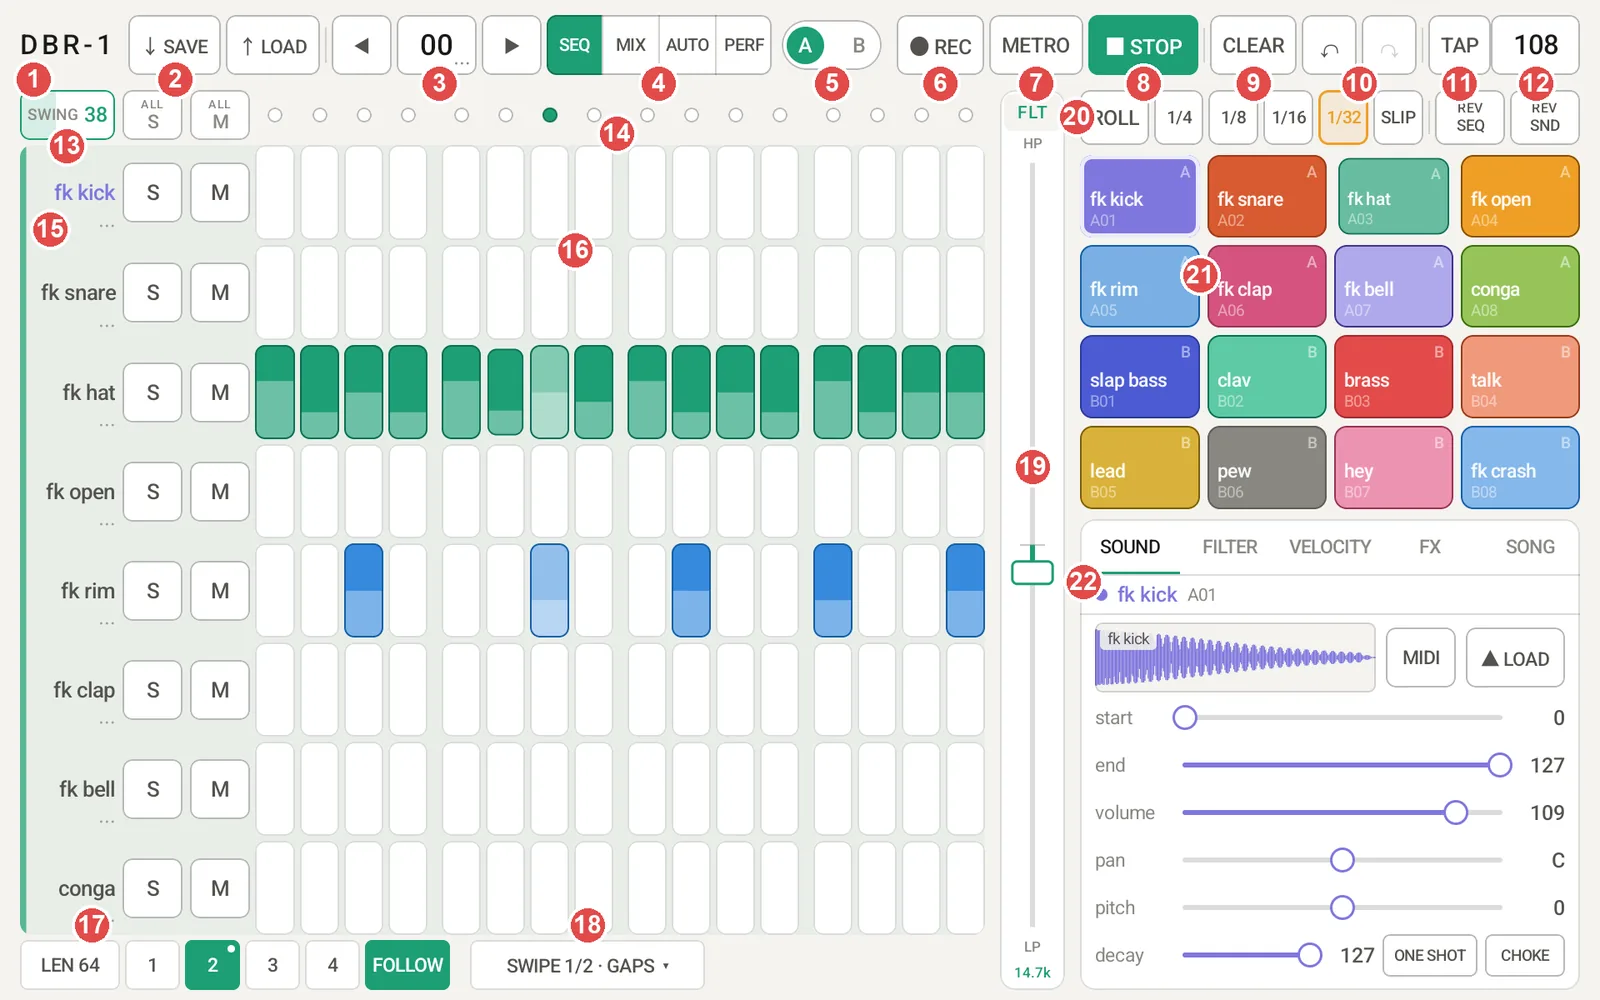
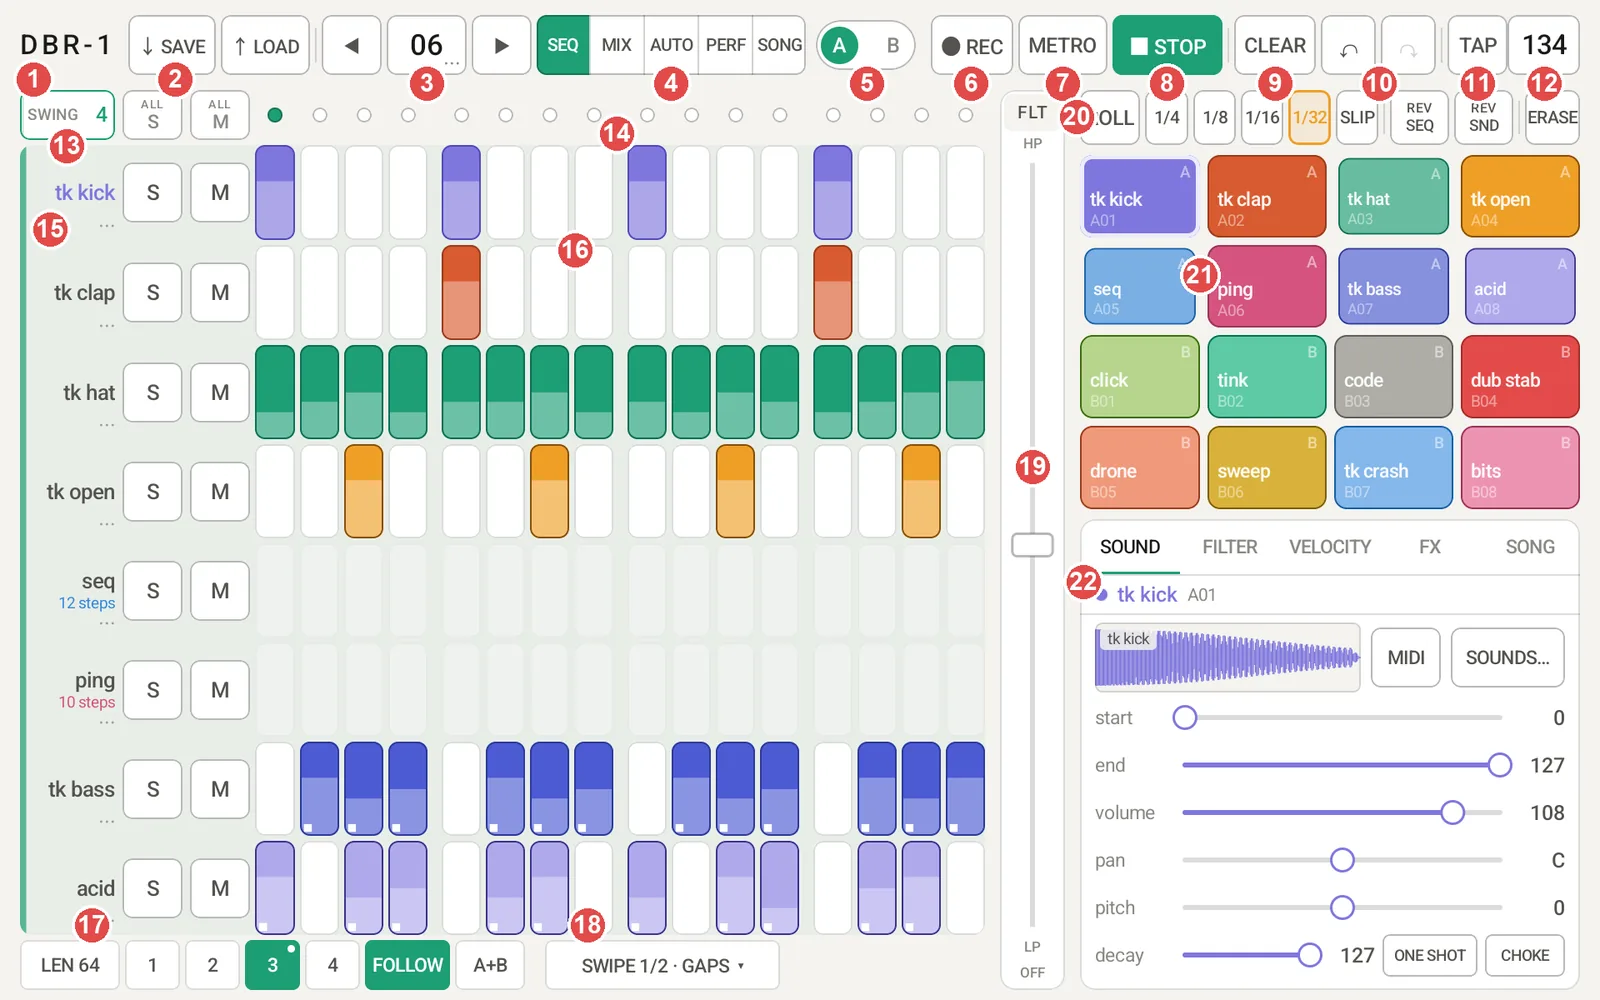
説明書: ヘッダーの SONG（ソングの画面）・全体図の撮り直し
Claude-Session: https://claude.ai/code/session_014nrG8LAda3EPv8TQp5hzGz

diff --git a/dbr1/manual/ja.html b/dbr1/manual/ja.html
@@ -45,7 +45,7 @@
 <tr><td class="n"><span class="num">1</span></td><td>ロゴ</td><td>タップでメニュー: この説明書（<b>Manual</b>）、デモソング（<b>Demo songs…</b>）、ジャンルのテンプレート（<b>Templates…</b>）、設定（<b>Settings…</b>）、このアプリについて（<b>About</b>）。<b>Settings…</b> には、MIDI の設定（MIDI…）・オーディオの入出力（Audio I/O…）、STOP の後の PLAY を頭から / 続きから（After STOP）、再生中のパターンの切り替えのタイミング（Pattern switch）、トラック名に触れたとき・ステップを入れたときに音を鳴らすか（Sound on track tap / Sound on step input）、オートメーションの動きの表示（Animate automation）、スマートフォンと同じ配置にする（Phone layout）が、それぞれ短い説明つきで並びます。初めて起動したときは、デモ曲を聴く / テンプレートから始める / そのまま始める、を選ぶカードが出ます。メニューの先頭に、開いているプロジェクトの名前が出ます（PROJECT: …）</td></tr>
 <tr><td class="n"><span class="num">2</span></td><td>SAVE / LOAD</td><td>プロジェクト・パターン・キットの保存と読み込み（→ <a href="#save">10</a>）。LOAD の Templates… でジャンルの定番ビート（→ <a href="#templates">2</a>）、Demo songs… でデモソング（→ <a href="#demosongs">2</a>）。LOAD の先頭の <b>New project…</b> で空のプロジェクトを始めます（全パターン・ソングを空に、キットを内蔵の音に、BPM 120。先に保存するかを選べ、↶ で戻せます）。SAVE → Project の名前は、開いているプロジェクト（読み込んだ・保存したファイル、デモ曲なら曲名）の名前が最初から入るので、そのまま OK で上書きできます</td></tr>
 <tr><td class="n"><span class="num">3</span></td><td>パターン番号</td><td>◀ ▶ で切り替え（00〜99）。タップで<b>パターンの一覧</b>（10 × 10。中身のある番号は色付き、今の番号は緑。タップで切り替え。スマートフォンはタップで直接入力）。長押しでメニュー: <b>Duplicate to next empty</b>（今のパターンを次の空いた番号へ写してそこへ移る。バリエーション作りに）、コピー / ペースト / 消去、FX だけのコピー / ペースト。一覧の上にも Duplicate to next empty があります。メニューの <b>Rename…</b> でパターンに名前（「Intro」「Drop」など、12 文字まで）を付けると、パターンの一覧に出ます</td></tr>
-<tr><td class="n"><span class="num">4</span></td><td>SEQ / MIX / AUTO / PERF</td><td>左の大きな場所に出す画面の切り替え（今の画面が点灯）。SEQ = ステップ、MIX = ミキサー（→ <a href="#mixer">ミキサー</a>）、AUTO = オートメーション（→ <a href="#automation">オートメーション</a>）、PERF = パフォーマンス画面（→ <a href="#performscreen">7</a>）。ミキサー・AUTO・PERF の画面では、端末の「戻る」でその画面を閉じます</td></tr>
+<tr><td class="n"><span class="num">4</span></td><td>SEQ / MIX / AUTO / PERF / SONG</td><td>左の大きな場所に出す画面の切り替え（今の画面が点灯）。SEQ = ステップ、MIX = ミキサー（→ <a href="#mixer">ミキサー</a>）、AUTO = オートメーション（→ <a href="#automation">オートメーション</a>）、PERF = パフォーマンス画面（→ <a href="#performscreen">7</a>）、SONG = ソングの画面（→ <a href="#songscreen">8</a>）。SEQ 以外の画面では、端末の「戻る」でその画面を閉じます</td></tr>
 <tr><td class="n"><span class="num">5</span></td><td>BANK A / B</td><td>表示するトラック（A01〜A08 / B01〜B08）の切り替え。今のバンクは、トラックの並びの背景の色（A = 緑、B = 紫）と左の帯でも分かります。パッドで別のバンクのトラックを選ぶとバンクも切り替わり、スイッチと帯が少しの間光ります</td></tr>
 <tr><td class="n"><span class="num">6</span></td><td>REC</td><td>録音の待機。点灯中に再生してパッドを叩くと、ステップに記録されます（→ <a href="#rec">4</a>）</td></tr>
 <tr><td class="n"><span class="num">7</span></td><td>METRO</td><td>メトロノームの ON / OFF</td></tr>
@@ -483,6 +483,14 @@
 <ul>
   <li><span class="key">+ ADD</span> で行を追加します（タブレットはパターンの一覧から選んで足す。行のパターン番号のタップでも一覧から選び直せます。スマートフォンは今のパターン）。各行は「パターン番号 × くり返す回数」（最大 99 行）。▲▼ で並べ替え、✕ で削除。</li>
   <li><b>PLAY: SONG</b> にしてから PLAY を押すと、並べた順に再生します。最後まで行ったときの動きは隣のボタンで選びます: <b>↻ LOOP</b> = 先頭に戻ってくり返す（既定）、<b>→ ONCE</b> = 1 回で止める。この設定はプロジェクトに保存されます。再生中に PATTERN ⇄ SONG を切り替えると、再生は止まります。</li>
+</ul>
+<h3 id="songscreen">ソングの画面（タブレット: ヘッダーの SONG）</h3>
+<figure><img src="img/song_screen.webp" alt="ソングの画面"><figcaption>左がソングの並び（行ごとにパターンの中身の小さな絵）、右がパターンの一覧。再生中の行は緑</figcaption></figure>
+<ul>
+  <li>ソング全体を広い画面で見ながら組み立てます。右上に行の数・小節の数・全体の長さ（時間）が出ます。</li>
+  <li>右の<b>パターンの一覧のタップ</b>で、そのパターンを末尾に足します（色の付いた番号に中身があります）。</li>
+  <li>各行: パターン番号（名前と小節の数。タップで一覧から選び直す）/ <b>中身の小さな絵</b>（16 トラックのステップ。タップでそのパターンをシーケンサで開いて直せます）/ − ×回数 + / ▲▼ 並べ替え / <b>⧉</b> 直後に複製 / ✕ 削除。</li>
+  <li>再生中は今の行が緑になり、画面が追いかけます。SONG タブと中身は同じです（どちらで直しても同じソング）。</li>
 </ul>
 <h3 id="automation">オートメーション（AUTO）</h3>
 <p>音量・パン・フィルター・EQ・センド量・FX・MASTER などを、パターンの中で動かせます。タブレットはヘッダーの <span class="key">AUTO</span>、スマートフォンは左の <span class="key">AUTO</span> で開きます。オートメーションはパターンごとに保存されます。</p>

diff --git a/dbr1/manual/en.html b/dbr1/manual/en.html
@@ -45,7 +45,7 @@
 <tr><td class="n"><span class="num">1</span></td><td>Logo</td><td>Tap for the menu: this <b>Manual</b>, <b>Demo songs…</b>, genre <b>Templates…</b>, <b>Settings…</b> and <b>About</b>. <b>Settings…</b> gathers MIDI settings (MIDI…), audio inputs and outputs (Audio I/O…), whether PLAY after STOP starts over or continues (After STOP), when a pattern change happens while playing (Pattern switch), whether tapping a track name or entering a step plays the sound (Sound on track tap / Sound on step input), moving knobs with automation (Animate automation) and the phone-style screen (Phone layout), each with a short explanation. The first time you open DBR-1, a card lets you choose: listen to a demo song, start from a template, or start right away. The top of the menu shows the name of the open project (PROJECT: …)</td></tr>
 <tr><td class="n"><span class="num">2</span></td><td>SAVE / LOAD</td><td>Save and load projects, patterns and kits (→ <a href="#save">10</a>). LOAD → Templates… for classic genre beats (→ <a href="#templates">2</a>), Demo songs… for the demo songs (→ <a href="#demosongs">2</a>). <b>New project…</b> at the top of LOAD starts an empty project (all patterns and the song cleared, the built-in kit, 120 BPM; you can save first, and ↶ brings the old one back). SAVE → Project starts with the name of the open project (the file you loaded or saved, or the demo song's title), so OK overwrites it</td></tr>
 <tr><td class="n"><span class="num">3</span></td><td>Pattern number</td><td>◀ ▶ to change (00–99). Tap for the <b>pattern list</b> (10 × 10; numbers with content are tinted, the current one is green; tap to switch. On phones, tap to type a number). Long-press for the menu: <b>Duplicate to next empty</b> (copies the current pattern to the next empty number and moves there — handy for variations), copy / paste / clear, and copy / paste FX only. The list has Duplicate to next empty too. <b>Rename…</b> in the menu names a pattern (“Intro”, “Drop”…, up to 12 characters); the name shows in the pattern list</td></tr>
-<tr><td class="n"><span class="num">4</span></td><td>SEQ / MIX / AUTO / PERF</td><td>Chooses what the large area on the left shows (the current one lights up). SEQ = steps, MIX = mixer (→ <a href="#mixer">Mixer</a>), AUTO = automation (→ <a href="#automation">Automation</a>), PERF = performance screen (→ <a href="#performscreen">7</a>). On the mixer, AUTO and PERF screens, the device Back button closes that screen</td></tr>
+<tr><td class="n"><span class="num">4</span></td><td>SEQ / MIX / AUTO / PERF / SONG</td><td>Chooses what the large area on the left shows (the current one lights up). SEQ = steps, MIX = mixer (→ <a href="#mixer">Mixer</a>), AUTO = automation (→ <a href="#automation">Automation</a>), PERF = performance screen (→ <a href="#performscreen">7</a>), SONG = song screen (→ <a href="#songscreen">8</a>). On any screen other than SEQ, the device Back button closes that screen</td></tr>
 <tr><td class="n"><span class="num">5</span></td><td>BANK A / B</td><td>Shows tracks A01–A08 or B01–B08. The current bank also shows as the tint behind the tracks (A = green, B = purple) and the stripe on their left. Hitting a pad of the other bank switches the bank too, and the switch and stripe flash briefly</td></tr>
 <tr><td class="n"><span class="num">6</span></td><td>REC</td><td>Arms recording. Pads you hit while playing are recorded (→ <a href="#rec">4</a>)</td></tr>
 <tr><td class="n"><span class="num">7</span></td><td>METRO</td><td>Metronome on / off</td></tr>
@@ -483,6 +483,14 @@
 <ul>
   <li><span class="key">+ ADD</span> adds a row (on tablets, pick the pattern from the pattern list; tap a row's pattern number to pick it again. On phones it adds the current pattern). Each row is “pattern × repeats” (up to 99 rows). ▲▼ reorder, ✕ deletes.</li>
   <li>With <b>PLAY: SONG</b>, PLAY plays the rows in order. The button next to it sets what happens at the end: <b>↻ LOOP</b> = back to the top and repeat (default), <b>→ ONCE</b> = play once and stop. This is saved with the project. Switching between PATTERN and SONG while playing stops playback.</li>
+</ul>
+<h3 id="songscreen">Song screen (tablet: SONG in the header)</h3>
+<figure><img src="img/song_screen.webp" alt="Song screen"><figcaption>The song rows on the left (each with a small picture of the pattern), the pattern list on the right. The playing row is green</figcaption></figure>
+<ul>
+  <li>Build the whole song on a wide screen. The top right shows the number of rows, the number of bars and the total time.</li>
+  <li><b>Tap a pattern in the list</b> on the right to add it to the end (colored numbers have steps).</li>
+  <li>Each row: the pattern number (with its name and bars; tap to pick another from the list) / a <b>small picture of its steps</b> (16 tracks; tap it to open that pattern in the sequencer and edit it) / − ×repeats + / ▲▼ reorder / <b>⧉</b> duplicate below / ✕ delete.</li>
+  <li>While playing, the current row turns green and the screen follows it. It is the same song as the SONG tab (edit it in either place).</li>
 </ul>
 <h3 id="automation">Automation (AUTO)</h3>
 <p>Volume, pan, filter, EQ, sends, effects, master volume and more can move within a pattern. On a tablet, tap <span class="key">AUTO</span> in the header; on a phone, open <span class="key">AUTO</span> on the left. Automation is saved with each pattern.</p>
